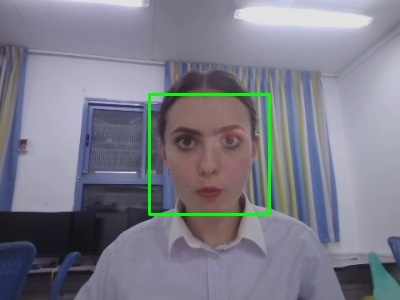
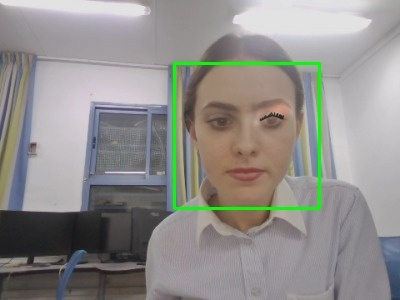
makup

diff --git a/server/this_luke_to_event.py b/server/this_luke_to_event.py
@@ -1,99 +1,242 @@
-# layered_eye_makeup.py  – גרסה משופרת
 import cv2
 import mediapipe as mp
+import matplotlib.pyplot as plt
 import numpy as np
-from typing import List, Tuple
+import random
 
 mp_face_mesh = mp.solutions.face_mesh
 
-# ------------------------------------------------------------
-#  קבועי צבעים (BGR)
-# ------------------------------------------------------------
-LIGHT_BROWN: Tuple[int, int, int] = (80, 130, 250)
-MID_BROWN  : Tuple[int, int, int] = (60,  90, 170)
-DARK_BROWN : Tuple[int, int, int] = (30,  30,  30)
-PURE_WHITE : Tuple[int, int, int] = (255,255,255)
+# -------------------------------------------------
+#   Helper utilities
+# -------------------------------------------------
 
-# ------------------------------------------------------------
-#  Landmark-ים לעין ימין  (אם התמונה מראה רק עין שמאל – החליפי מראה)
-# ------------------------------------------------------------
-EYE_FULL   : List[int] = [464, 413, 441, 442, 282, 283, 300,
-                          383, 353, 342, 359, 263, 466, 388,
-                          387, 386, 385, 384, 398, 362, 463]
+def draw_contour(img, lm, idxs, color, thickness=1, closed=True):
+    pts = [(int(lm[i].x * img.shape[1]), int(lm[i].y * img.shape[0])) for i in idxs]
+    for i in range(len(pts) - 1):
+        cv2.line(img, pts[i], pts[i+1], color, thickness)
+    if closed and len(pts) > 2:
+        cv2.line(img, pts[-1], pts[0], color, thickness)
 
-EYE_INNER  : List[int] = [465, 464, 463, 414, 286, 441, 413]     # אזור פנימי
-EYE_MIDDLE : List[int] = [384, 286, 442, 282, 283, 276, 353,
-                          342, 467, 466, 388, 387, 386, 385]     # אמצע
-EYE_OUTER  : List[int] = [260, 445, 276, 300, 383, 353,
-                          342, 467]                              # חיצוני
+def sample_color(img, lm, idxs):
+    return np.mean(
+        [img[int(lm[i].y * img.shape[0]), int(lm[i].x * img.shape[1])] for i in idxs],
+        axis=0
+    ).astype(np.uint8)
 
-# ------------------------------------------------------------
+def apply_makeup(img, mask, color, alpha=0.4):
+    overlay = img.copy()
+    overlay[mask] = (1 - alpha) * overlay[mask] + alpha * color
+    return overlay.astype(np.uint8)
+
 def _lm_to_pts(lm, idxs, w, h):
-    return np.array([(int(lm[i].x * w), int(lm[i].y * h)) for i in idxs],
-                    dtype=np.int32)
+    return np.array([(int(lm[i].x * w), int(lm[i].y * h)) for i in idxs], dtype=np.int32)
 
-def paint_layer(overlay: np.ndarray,
-                lm,
-                idxs: List[int],
-                color: Tuple[int, int, int],
-                blur: int,
-                opacity: float) -> None:
-    """צובעת שכבה על-גבי overlay שקוף."""
+def paint_layer(overlay, lm, idxs, color, blur, opacity):
     h, w = overlay.shape[:2]
     mask = np.zeros_like(overlay)
-
     cv2.fillPoly(mask, [_lm_to_pts(lm, idxs, w, h)], color)
     mask = cv2.GaussianBlur(mask, (blur, blur), 0)
-
     cv2.addWeighted(mask, opacity, overlay, 1.0, 0, dst=overlay)
 
-# ------------------------------------------------------------
-def apply_layered_eye_makeup(img: np.ndarray, lm) -> np.ndarray:
-    overlay = np.zeros_like(img)     # נצבור עליו את כל השכבות
+def draw_eyeliner(img, lm, idxs, color=(0, 0, 0), thickness=1):
+    h, w = img.shape[:2]
+    pts = [(int(lm[i].x * w), int(lm[i].y * h)) for i in idxs]
+    for i in range(len(pts) - 1):
+        cv2.line(img, pts[i], pts[i + 1], color, thickness, lineType=cv2.LINE_AA)
 
-    # 1. שליש חיצוני – חום כהה
-    paint_layer(overlay, lm, EYE_OUTER,  DARK_BROWN, blur=25, opacity=0.80)
+def draw_eyelashes(img, lm, idxs, length=6, color=(40, 40, 40), thickness=1, density=8, long_factor=1.6):
+    h, w = img.shape[:2]
+    LONG_LASH_POINTS = {387, 388, 466, 263, 359}
+    for i in range(len(idxs) - 1):
+        idx_a, idx_b = idxs[i], idxs[i + 1]
+        x1, y1 = int(lm[idx_a].x * w), int(lm[idx_a].y * h)
+        x2, y2 = int(lm[idx_b].x * w), int(lm[idx_b].y * h)
+        seg_length = length * (long_factor if (idx_a in LONG_LASH_POINTS or idx_b in LONG_LASH_POINTS) else 1.0)
+        for j in range(density):
+            t = j / density
+            x = int(x1 + t * (x2 - x1))
+            y = int(y1 + t * (y2 - y1))
+            angle = random.uniform(-0.5, 0.5)
+            dx = int(np.sin(angle) * seg_length)
+            dy = -int(np.cos(angle) * seg_length)
+            cv2.line(img, (x, y), (x + dx, y + dy), color, thickness, lineType=cv2.LINE_AA)
 
-    # 2. שליש אמצעי – חום בינוני
-    paint_layer(overlay, lm, EYE_MIDDLE, MID_BROWN,  blur=31, opacity=0.60)
+def apply_layered_eye_makeup(img, lm):
+    overlay = np.zeros_like(img)
+    EYE_INNER = [465, 464, 463, 414, 286, 441, 413]
+    EYE_MIDDLE = [384, 286, 442, 282, 283, 276, 353, 342, 467, 466, 388, 387, 386, 385]
+    EYE_OUTER = [260, 445, 276, 300, 383, 353, 342, 467]
+    EYE_LINER = [398, 384, 385, 386, 387, 388, 466, 263, 359]
 
-    # 3. שליש פנימי – לבן/שימר
-    paint_layer(overlay, lm, EYE_INNER,  PURE_WHITE, blur=25, opacity=0.75)
+    EYE_INNER_R = [243 ,244 ,189 ,221 ,56 ,157 ,173]
+    EYE_MIDDLE_R = [157 ,221 ,55 ,65, 52, 53 ,56 ,124, 113 ,247, 246 ,161 ,160, 159 ,158]
+    EYE_OUTER_R = [130, 35 ,246 ,161 ,30 ,225 ,46 ,124 ,113 ]
+    EYE_LINER_R = [243 ,173, 157, 158 ,159 ,160, 161, 246, 33, 130]
 
-    # ⭐ אם תרצי “בסיס” בהיר על כל העפעף, שימי אותו כאן עם אלפא נמוך
-    # paint_layer(overlay, lm, EYE_FULL, LIGHT_BROWN, blur=41, opacity=0.25)
 
-    # מיזוג חד-פעמי עם התמונה המקורית
+
+    paint_layer(overlay, lm, EYE_OUTER, (30, 30, 30), blur=25, opacity=0.80)
+    paint_layer(overlay, lm, EYE_MIDDLE, (60, 90, 170), blur=31, opacity=0.60)
+    paint_layer(overlay, lm, EYE_INNER, (255, 255, 255), blur=25, opacity=0.75)
+
+    paint_layer(overlay, lm, EYE_INNER_R, (255, 255, 255), blur=25, opacity=0.75)
+    paint_layer(overlay, lm, EYE_MIDDLE_R, (60, 90, 170), blur=31, opacity=0.60)
+    paint_layer(overlay, lm, EYE_OUTER_R, (30, 30, 30), blur=25, opacity=0.80)
+
+
     final = cv2.addWeighted(img, 1.0, overlay, 1.0, 0)
+    draw_eyeliner(final, lm, EYE_LINER, color=(40, 40, 40), thickness=1)
+    draw_eyelashes(final, lm, EYE_LINER, length=3, density=2, color=(40, 40, 40), thickness=1, long_factor=1.2)
+
+        # אייליינר וריסים לעין ימין
+    draw_eyeliner(final, lm, EYE_LINER_R, color=(40, 40, 40), thickness=1)
+    draw_eyelashes(final, lm, EYE_LINER_R, length=3, density=2, color=(40, 40, 40), thickness=1, long_factor=1.2)
+
     return final
+def draw_soft_cheek_contour(img, lm, idxs,
+                            color=(30, 50, 100),  # גוון חום כהה BGR
+                            alpha=0.5,
+                            blur_size=65):
+    h, w = img.shape[:2]
+    mask = np.zeros_like(img)
+    pts = [(int(lm[i].x * w), int(lm[i].y * h)) for i in idxs]
+    cv2.fillPoly(mask, [np.array(pts, np.int32)], color)
+    blurred = cv2.GaussianBlur(mask, (blur_size, blur_size), 0)
+    return cv2.addWeighted(img, 1.0, blurred, alpha, 0)
 
-# ------------------------------------------------------------
-def makeup_on_image(image_path: str,
-                    save_as: str = "layered_eye_output.jpg") -> None:
-    img_bgr = cv2.imread(image_path)
-    if img_bgr is None:
-        raise FileNotFoundError(f"לא נמצא קובץ: {image_path}")
+# -------------------------------------------------
+def detect_and_draw_all_contours(image_path: str):
+    image = cv2.imread(image_path)
+    if image is None:
+        print("❌ לא ניתן לקרוא את הקובץ:", image_path)
+        return
 
-    with mp_face_mesh.FaceMesh(static_image_mode=True,
-                               max_num_faces=1,
-                               refine_landmarks=True,
-                               min_detection_confidence=0.5) as fm:
-        res = fm.process(cv2.cvtColor(img_bgr, cv2.COLOR_BGR2RGB))
+    img_rgb = cv2.cvtColor(image, cv2.COLOR_BGR2RGB)
+    with mp_face_mesh.FaceMesh(
+        static_image_mode=True,
+        max_num_faces=1,
+        refine_landmarks=True,
+        min_detection_confidence=0.5
+    ) as fm:
+        res = fm.process(img_rgb)
+        annotated = image.copy()
+
         if not res.multi_face_landmarks:
-            raise RuntimeError("❌ לא זוהו פנים בתמונה")
+            print("❌ לא זוהו פנים בתמונה")
+            return
 
         for face in res.multi_face_landmarks:
-            img_bgr = apply_layered_eye_makeup(img_bgr, face.landmark)
+            lm = face.landmark
+            h, w = annotated.shape[:2]
 
-    cv2.imwrite(save_as, img_bgr)
-    print(f"✅ נשמר: {save_as}")
+            # גבות
+            brow_R = [70,63,105,66,107,55,65,52]
+            brow_L = [285,336,296,334,293,300,282,295]
+            col_R = sample_color(image, lm, brow_R)
+            col_L = sample_color(image, lm, brow_L)
+            brow_col = ((col_R.astype(np.float32)+col_L.astype(np.float32))/2).astype(np.uint8)
+            brow_col = tuple(int(c) for c in brow_col)
 
-    # תצוגה
-    import matplotlib.pyplot as plt
-    plt.imshow(cv2.cvtColor(img_bgr, cv2.COLOR_BGR2RGB))
-    plt.axis("off")
-    plt.show()
+            draw_contour(annotated, lm, brow_R+[brow_R[0]], brow_col, thickness=1)
+            draw_contour(annotated, lm, brow_L+[brow_L[0]], brow_col, thickness=1)
 
-# ------------------------------------------------------------
+            def fill_brow(img, lmks, idxs, color, alpha=0.6):
+                mask = np.zeros((h, w), dtype=np.uint8)
+                pts = np.array([(int(lmks[i].x * w), int(lmks[i].y * h)) for i in idxs], np.int32)
+                cv2.fillPoly(mask, [pts], 255)
+                mask = cv2.GaussianBlur(mask, (15, 15), 0)
+                color_layer = np.full_like(img, color)
+                for c in range(3):
+                    img[..., c] = img[..., c] * (1 - (alpha * mask / 255.0)) + color_layer[..., c] * (alpha * mask / 255.0)
+
+            fill_brow(annotated, lm, brow_R, brow_col)
+            fill_brow(annotated, lm, brow_L, brow_col)
+
+            # מייקאפ כללי
+            outline = [10,338,297,332,284,251,389,356,454,323,361,288,397,365,
+                       379,378,400,377,152,148,176,149,150,136,172,58,132,
+                       93,234,127,162,21,54,103,67,109]
+            mask = np.zeros((h,w), dtype=np.uint8)
+            cv2.fillPoly(mask, [np.array([(int(lm[i].x*w), int(lm[i].y*h)) for i in outline], np.int32)], 255)
+            eye_R = [33,160,158,157,173,133,155,154,153,145]
+            eye_L = [263,387,385,384,398,362,382,381,380,374]
+            lips_out = [61,185,40,39,37,0,267,269,270,409,291,308,415,310,
+                        311,312,13,82,81,80,191,78]
+            lips_in  = [61,76,62,78,95,88,178,87,14,317,402,318,324,308,291,
+                        375,321,405,314,17,84,181,91,146]
+            no_make = np.zeros((h,w), dtype=np.uint8)
+            for region in [eye_R,eye_L,brow_R,brow_L,lips_out,lips_in]:
+                cv2.fillPoly(no_make, [np.array([(int(lm[i].x*w), int(lm[i].y*h)) for i in region], np.int32)], 255)
+            mask = cv2.bitwise_and(mask, cv2.bitwise_not(no_make))
+            skin_tone = np.mean(np.array([
+                sample_color(image, lm, [10,338,297]),
+                sample_color(image, lm, [234,93]),
+                sample_color(image, lm, [454,323]),
+                sample_color(image, lm, [1,2,168]),
+                sample_color(image, lm, [152,199])
+            ]), axis=0).astype(np.uint8)
+            annotated[:] = apply_makeup(annotated, mask.astype(bool), skin_tone, alpha=0.4)
+
+            # שפתיים
+            lip_col = (80,35,150)
+            overlay = annotated.copy()
+            cv2.fillPoly(overlay, [np.array([(int(lm[i].x*w), int(lm[i].y*h)) for i in lips_out], np.int32)], lip_col)
+            cv2.fillPoly(overlay, [np.array([(int(lm[i].x*w), int(lm[i].y*h)) for i in lips_in], np.int32)], lip_col)
+            cv2.addWeighted(overlay, 0.4, annotated, 0.6, 0, annotated)
+            draw_contour(annotated, lm, lips_out+[lips_out[0]], lip_col, 1)
+            draw_contour(annotated, lm, lips_in+[lips_in[0]], lip_col, 1)
+
+            # עיניים
+            annotated = apply_layered_eye_makeup(annotated, lm)
+
+            # הצללת לחי ימין
+            CHEEK_R = [356, 447, 352, 376, 433,401,323]
+            annotated = draw_soft_cheek_contour(annotated, lm, CHEEK_R)
+
+            # הצללת לחי שמאל    
+            CHEEK_L = [127, 227, 123, 147, 213, 177,63,234]
+            annotated = draw_soft_cheek_contour(annotated, lm, CHEEK_L) 
+
+            # סומק ורוד בלחי
+            BLUSH_AREA = [280, 346, 340, 372, 264, 447, 352]
+            annotated = draw_soft_cheek_contour(
+                annotated, lm, BLUSH_AREA,
+                color=(180, 105, 255),  # BGR של ורוד בהיר
+                alpha=0.4,
+                blur_size=65
+            )
+
+            # סומק ורוד בלחי שמאל
+            BLUSH_AREA_L = [50, 123, 227, 34, 143, 111, 117]
+            annotated = draw_soft_cheek_contour(
+                annotated, lm, BLUSH_AREA_L,
+                color=(180, 105, 255),  # ורוד בהיר BGR
+                alpha=0.4,
+                blur_size=65
+            )
+
+            # שימר לבן מעל הסומק בלחי שמאל
+            annotated = draw_soft_cheek_contour(
+                annotated, lm, BLUSH_AREA_L,
+                color=(255, 255, 255),
+                alpha=0.25,
+                blur_size=45
+            )
+
+            # שימר לבן מעל הסומק
+            annotated = draw_soft_cheek_contour(
+                annotated, lm, BLUSH_AREA,
+                color=(255, 255, 255),
+                alpha=0.25,
+                blur_size=45
+            )
+
+
+        cv2.imwrite("output_final_makeup.jpg", annotated)
+        print("✅ נשמר: output_final_makeup.jpg")
+        plt.imshow(cv2.cvtColor(annotated, cv2.COLOR_BGR2RGB))
+        plt.axis("off")
+        plt.show()
+
 if __name__ == "__main__":
-    makeup_on_image("captured_image.jpg")
+    detect_and_draw_all_contours("captured_image.jpg")

diff --git a/server/face_detection.py b/server/face_detection.py
@@ -84,27 +84,28 @@ def detect_and_draw_all_contours(image_path: str):
                 sample_color(image, lm, [152,199])
             ]), axis=0).astype(np.uint8)
 
-            # ---------- brows (uniform fill) ----------
+            # ---------- brows ----------
             brow_R = [70,63,105,66,107,55,65,52]
             brow_L = [285,336,296,334,293,300,282,295]
 
             col_R = sample_color(image, lm, brow_R)
             col_L = sample_color(image, lm, brow_L)
             brow_col = ((col_R.astype(np.float32)+col_L.astype(np.float32))/2).astype(np.uint8)
-            brow_col = tuple(int(c) for c in brow_col)  # צבע טבעי
+            brow_col = tuple(int(c) for c in brow_col)
 
-            # תיחום הגבה
             draw_contour(annotated, lm, brow_R+[brow_R[0]], brow_col, thickness=1)
             draw_contour(annotated, lm, brow_L+[brow_L[0]], brow_col, thickness=1)
 
-            # מילוי אחיד עם שקיפות
-            def fill_brow(img, lmks, idxs, color, alpha=0.5):
-                overlay = img.copy()
-                pts = np.array([
-                    (int(lmks[i].x*w), int(lmks[i].y*h)) for i in idxs
-                ], np.int32)
-                cv2.fillPoly(overlay, [pts], color)
-                cv2.addWeighted(overlay, alpha, img, 1-alpha, 0, img)
+            # ✅ מילוי טבעי כמו צללית
+            def fill_brow(img, lmks, idxs, color, alpha=0.6):
+                h, w = img.shape[:2]
+                mask = np.zeros((h, w), dtype=np.uint8)
+                pts = np.array([(int(lmks[i].x * w), int(lmks[i].y * h)) for i in idxs], np.int32)
+                cv2.fillPoly(mask, [pts], 255)
+                mask = cv2.GaussianBlur(mask, (15, 15), 0)
+                color_layer = np.full_like(img, color)
+                for c in range(3):
+                    img[..., c] = img[..., c] * (1 - (alpha * mask / 255.0)) + color_layer[..., c] * (alpha * mask / 255.0)
 
             fill_brow(annotated, lm, brow_R, brow_col)
             fill_brow(annotated, lm, brow_L, brow_col)
@@ -117,7 +118,7 @@ def detect_and_draw_all_contours(image_path: str):
             draw_eyelashes(annotated, lm, upper_R)
             draw_eyelashes(annotated, lm, upper_L)
 
-            # ---------- rest of makeup (unchanged) ----------
+            # ---------- rest of makeup ----------
             outline = [10,338,297,332,284,251,389,356,454,323,361,288,397,365,
                        379,378,400,377,152,148,176,149,150,136,172,58,132,
                        93,234,127,162,21,54,103,67,109]
@@ -126,7 +127,6 @@ def detect_and_draw_all_contours(image_path: str):
                 (int(lm[i].x*w), int(lm[i].y*h)) for i in outline
             ], np.int32)], 255)
 
-            # exclusion zones
             eye_R = [33,160,158,157,173,133,155,154,153,145]
             eye_L = [263,387,385,384,398,362,382,381,380,374]
             lips_out = [61,185,40,39,37,0,267,269,270,409,291,308,415,310,
@@ -141,7 +141,7 @@ def detect_and_draw_all_contours(image_path: str):
             mask = cv2.bitwise_and(mask, cv2.bitwise_not(no_make))
             annotated[:] = apply_makeup(annotated, mask.astype(bool), skin_tone, alpha=0.4)
 
-            # lips (unchanged)
+            # lips
             lip_col = (80,35,150)
             overlay = annotated.copy()
             cv2.fillPoly(overlay, [np.array([
